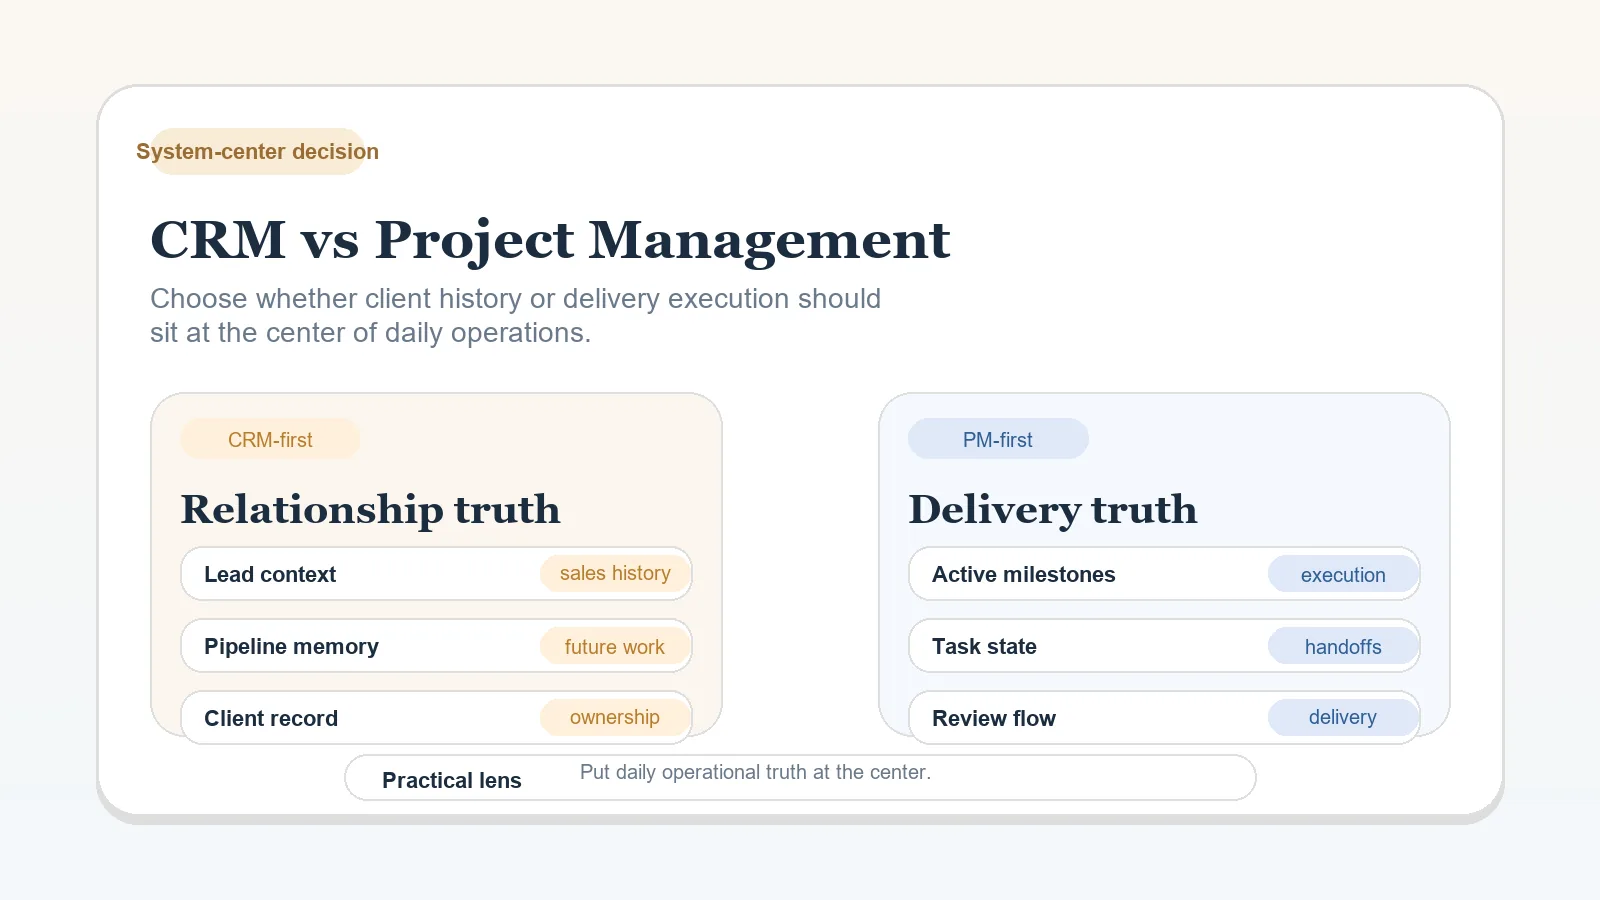
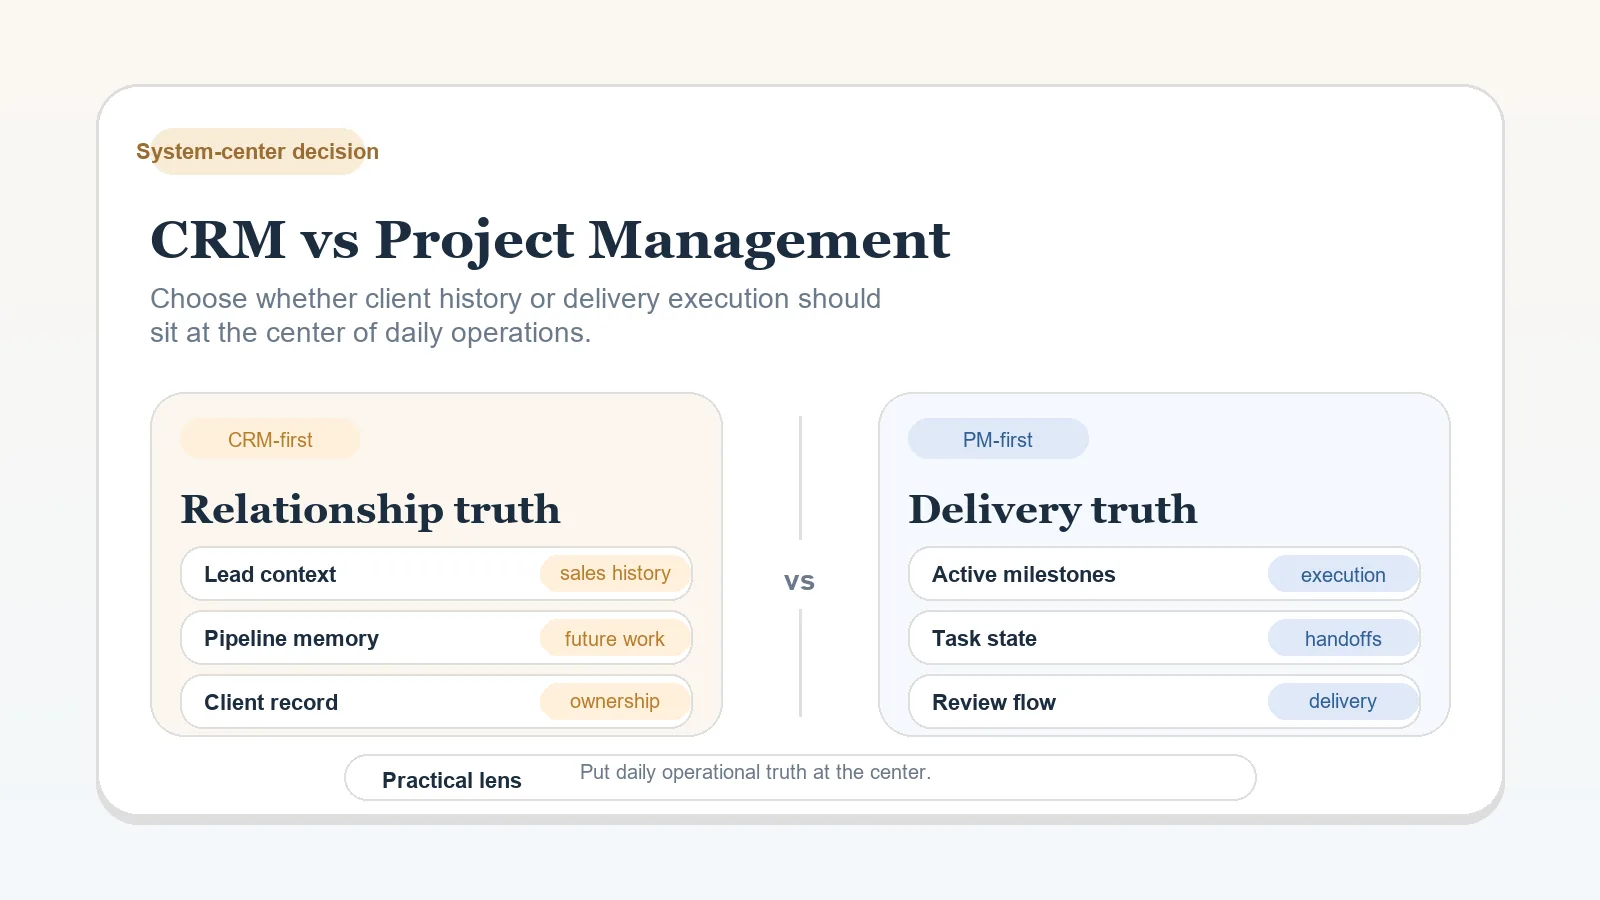
Regenerate four approved feature images

Changed region(s): [[0.125, 0.6844, 0.4375, 0.84], [0.5625, 0.6844, 0.9062, 0.84]]

diff --git a/tools/feature-images/feature_images/templates/workflow_map.py b/tools/feature-images/feature_images/templates/workflow_map.py
@@ -57,11 +57,11 @@ def render_workflow_map(spec, context):
             draw.line((x + card_width, connector_y, x + card_width + gap, connector_y), fill=palette["accent"], width=8)
             draw.ellipse((x + card_width + gap - 11, connector_y - 11, x + card_width + gap + 11, connector_y + 11), fill=palette["accent"])
 
-    note_box = (150, 654, 760, 760)
-    signal_box = (790, 654, 1450, 760)
+    note_box = (150, 664, 760, 778)
+    signal_box = (790, 664, 1450, 778)
     helpers["rounded_box"](draw, note_box, fill="#f3f8fb", outline=palette["stroke"], width=2, radius=28)
     helpers["rounded_box"](draw, signal_box, fill="#f7fbf8", outline=palette["stroke"], width=2, radius=28)
-    draw.text((182, 674), spec["supporting_note"]["title"], font=fonts["card_title"], fill=palette["ink"])
-    helpers["draw_text_block"](draw, spec["supporting_note"]["body"], fonts["card_body"], palette["muted"], (182, 718, 530, 60), 6, report, "workflow supporting note", max_lines=2)
-    draw.text((822, 674), spec["signal_note"]["title"], font=fonts["card_title"], fill=palette["ink"])
-    helpers["draw_text_block"](draw, spec["signal_note"]["body"], fonts["card_body"], palette["muted"], (822, 718, 550, 60), 6, report, "workflow signal note", max_lines=2)
+    draw.text((182, 684), spec["supporting_note"]["title"], font=fonts["card_title"], fill=palette["ink"])
+    helpers["draw_text_block"](draw, spec["supporting_note"]["body"], fonts["card_body"], palette["muted"], (182, 728, 530, 56), 6, report, "workflow supporting note", max_lines=2)
+    draw.text((822, 684), spec["signal_note"]["title"], font=fonts["card_title"], fill=palette["ink"])
+    helpers["draw_text_block"](draw, spec["signal_note"]["body"], fonts["card_body"], palette["muted"], (822, 728, 550, 56), 6, report, "workflow signal note", max_lines=2)

diff --git a/tools/feature-images/feature_images/templates/comparison_split.py b/tools/feature-images/feature_images/templates/comparison_split.py
@@ -22,10 +22,14 @@ def render_comparison_split(spec, context):
         helpers["pill"](draw, (box[0] + 30, box[1] + 26, box[0] + 210, box[1] + 66), pill_fill, side["kicker"], fonts["small"], pill_text)
         draw.text((box[0] + 30, box[1] + 94), side["title"], font=fonts["panel_title"], fill=palette["ink"])
         for index, item in enumerate(side["items"]):
-            y = box[1] + 154 + (index * 72)
+            y = box[1] + 154 + (index * 64)
             helpers["rounded_box"](draw, (box[0] + 30, y, box[2] - 30, y + 54), fill="#ffffff", outline=palette["stroke"], width=2, radius=22)
             draw.text((box[0] + 54, y + 16), item["label"], font=fonts["pill"], fill=palette["ink"])
             helpers["pill"](draw, (box[2] - 182, y + 9, box[2] - 32, y + 45), pill_fill, item["note"], fonts["small"], pill_text)
+
+    draw.line((800, 416, 800, 540), fill=palette["stroke"], width=3)
+    draw.line((800, 608, 800, 716), fill=palette["stroke"], width=3)
+    helpers["pill"](draw, (754, 540, 846, 608), palette["frame"], "vs", fonts["card_title"], palette["muted"])
 
     decision_box = (344, 754, 1256, 800)
     helpers["rounded_box"](draw, decision_box, fill=palette["frame"], outline=palette["stroke"], width=2, radius=28)

diff --git a/TRACKER.md b/TRACKER.md
@@ -933,3 +933,33 @@ After each future pass, add a short section with:
   - `Clarify public build output policy`
 - Push result:
   - `git push origin main` succeeded
+
+## Four approved feature image regeneration pass - 2026-04-17
+
+- Tool/workflow used:
+  - Python 3.12 + Pillow via `tools/feature-images/generate_one.py` (the official Python/WebP workflow)
+- Images regenerated:
+  - `static/images/features/workflows/freelance-client-workflow-system.webp`
+  - `static/images/features/hubs/client-workflow-systems.webp`
+  - `static/images/features/blueprints/solo-freelancer-lean-budget.webp`
+  - `static/images/features/comparisons/crm-vs-project-management.webp`
+- Source changes made before regeneration:
+  - `tools/feature-images/feature_images/data/workflows/freelance-client-workflow-system.json`: fixed `signal_note.title` from internal planning text ("What this image should imply") to user-facing copy ("Lifecycle view"); fixed `signal_note.body` to proper editorial label
+  - `tools/feature-images/feature_images/templates/comparison_split.py`: fixed item row spacing from `index * 72` to `index * 64` to prevent 8px overflow past panel boundary; added center visual separator (two short vertical rule segments + "vs" pill badge) in the 156px gap between left and right panels
+  - `tools/feature-images/feature_images/templates/workflow_map.py`: shifted note boxes from y=654–760 to y=664–778 for 10px more breathing room from the card panel above; updated all interior text positions accordingly; text bounds tightened to fit new height
+- Which webps actually changed vs stayed identical:
+  - `freelance-client-workflow-system.webp`: changed (signal_note content + note box position shifted)
+  - `crm-vs-project-management.webp`: changed (item spacing fix + center divider added)
+  - `client-workflow-systems.webp`: regenerated, identical output (hub_overview template and JSON unchanged — already correct)
+  - `solo-freelancer-lean-budget.webp`: regenerated, identical output (stack_blueprint template and JSON unchanged — already correct)
+- No orphan WebPs were created. Still exactly 4 WebPs in `static/images/features/`.
+- SVG fallbacks confirmed present for all 4 images.
+- Verification completed:
+  - ran `tools/hugo/v0.128.0/hugo.exe --gc --minify --baseURL https://soloopsguide.com/` successfully (75 pages, no errors)
+  - confirmed `public/` is gitignored and clean
+  - confirmed homepage references all 4 webp assets: `freelance-client-workflow-system.webp`, `client-workflow-systems.webp`, `solo-freelancer-lean-budget.webp`, `crm-vs-project-management.webp`
+  - confirmed no homepage sections disappeared and no broken image references in the build output
+- Commit message used:
+  - `Regenerate four approved feature images`
+- Push result:
+  - see below
